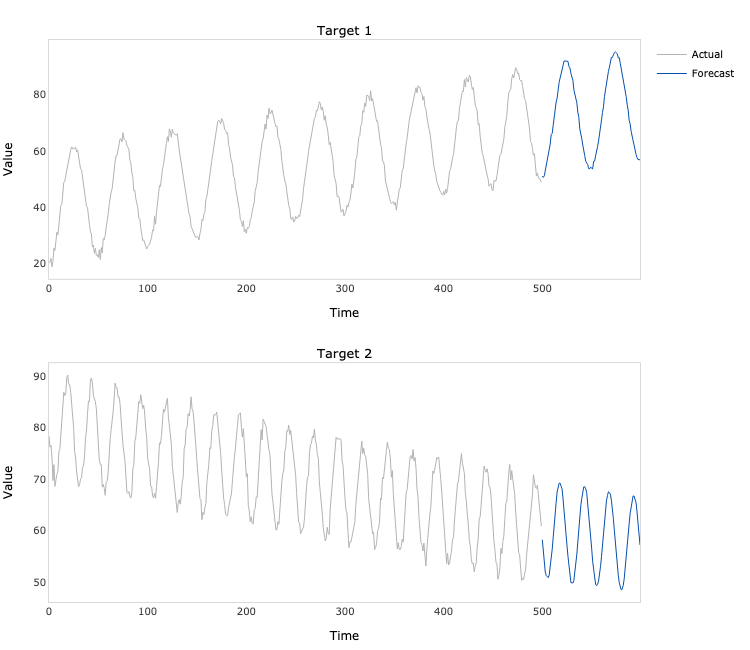
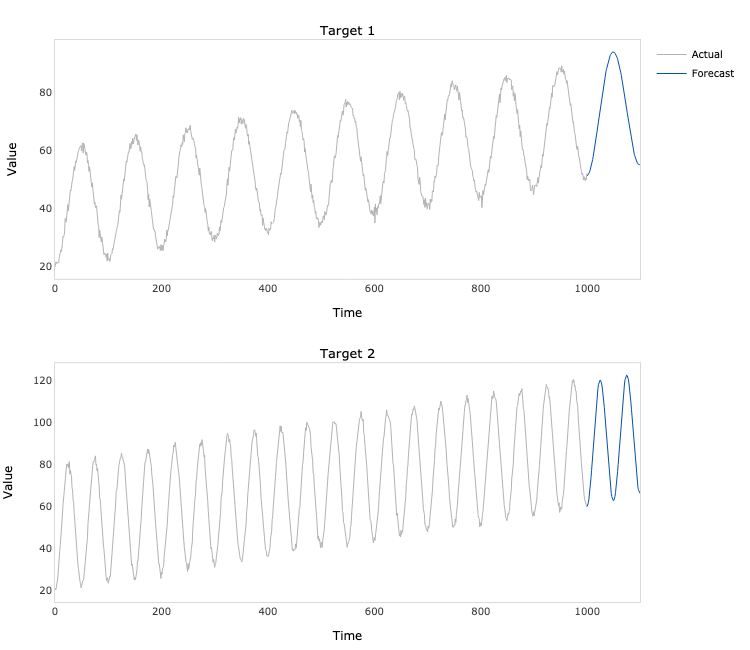
update example

diff --git a/example/example.py b/example/example.py
@@ -2,18 +2,18 @@ import numpy as np
 from lstnet_tensorflow.model import LSTNet
 
 # Generate two time series
-N = 500
+N = 1000
 t = np.linspace(0, 1, N)
-e = np.random.multivariate_normal(mean=[0, 0], cov=[[1, 0.25], [0.25, 1]], size=N)
+e = np.random.multivariate_normal(mean=np.zeros(2), cov=np.eye(2), size=N)
 a = 40 + 30 * t + 20 * np.cos(2 * np.pi * (10 * t - 0.5)) + e[:, 0]
-b = 80 - 20 * t + 10 * np.sin(2 * np.pi * (20 * t - 0.5)) + e[:, 1]
+b = 50 + 40 * t + 30 * np.cos(2 * np.pi * (20 * t - 0.5)) + e[:, 1]
 y = np.hstack([a.reshape(- 1, 1), b.reshape(- 1, 1)])
 
 # Fit the model
 model = LSTNet(
     y=y,
     forecast_period=100,
-    lookback_period=300,
+    lookback_period=200,
     kernel_size=3,
     filters=4,
     gru_units=4,
@@ -31,7 +31,7 @@ model.fit(
 )
 
 # Plot the in-sample predictions
-predictions = model.predict(index=400)
+predictions = model.predict(index=900)
 fig = model.plot_predictions()
 fig.write_image('predictions.png', width=750, height=650)
 

diff --git a/README.MD b/README.MD
@@ -22,18 +22,18 @@ import numpy as np
 from lstnet_tensorflow.model import LSTNet
 
 # Generate two time series
-N = 500
+N = 1000
 t = np.linspace(0, 1, N)
-e = np.random.multivariate_normal(mean=[0, 0], cov=[[1, 0.25], [0.25, 1]], size=N)
+e = np.random.multivariate_normal(mean=np.zeros(2), cov=np.eye(2), size=N)
 a = 40 + 30 * t + 20 * np.cos(2 * np.pi * (10 * t - 0.5)) + e[:, 0]
-b = 80 - 20 * t + 10 * np.sin(2 * np.pi * (20 * t - 0.5)) + e[:, 1]
+b = 50 + 40 * t + 30 * np.cos(2 * np.pi * (20 * t - 0.5)) + e[:, 1]
 y = np.hstack([a.reshape(- 1, 1), b.reshape(- 1, 1)])
 
 # Fit the model
 model = LSTNet(
     y=y,
     forecast_period=100,
-    lookback_period=300,
+    lookback_period=200,
     kernel_size=3,
     filters=4,
     gru_units=4,
@@ -52,7 +52,7 @@ model.fit(
 ```
 ```python
 # Plot the in-sample predictions
-predictions = model.predict(index=400)
+predictions = model.predict(index=900)
 fig = model.plot_predictions()
 fig.write_image('predictions.png', width=750, height=650)
 ```
